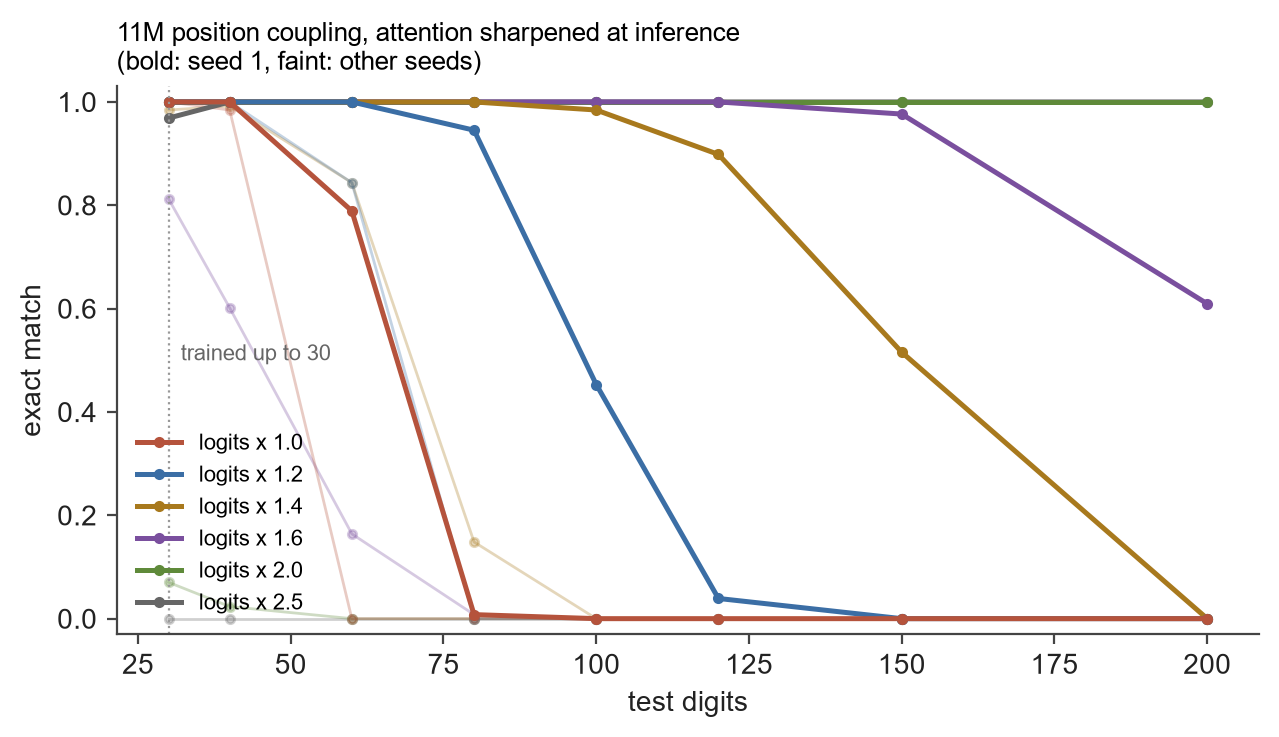
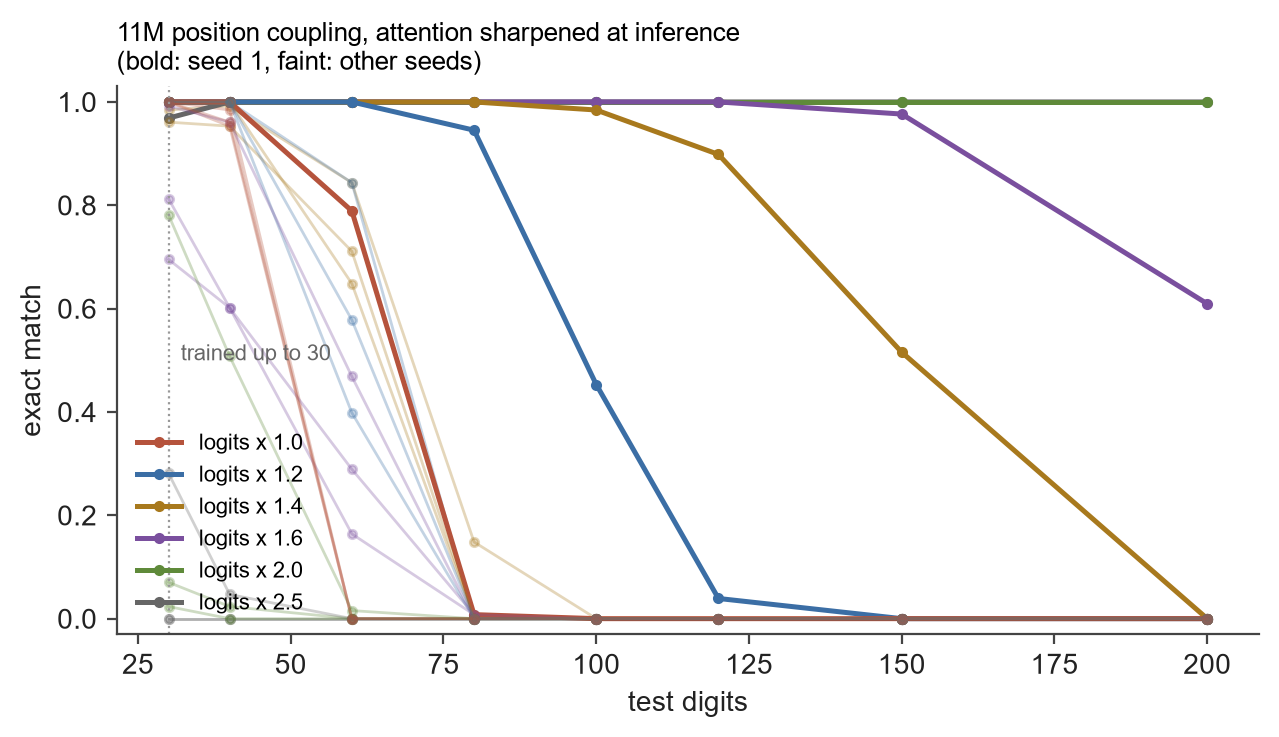
write up the temperature-trained runs and the two extra 11M seeds

diff --git a/paper/main.tex b/paper/main.tex
@@ -19,7 +19,7 @@ sharpening attention at inference recovers latent arithmetic circuits}
 \maketitle
 
 \begin{abstract}
-Small transformers trained on multi-digit addition are known to generalize poorly to operands longer than any seen in training, and the methods that help (reversed digits, abacus embeddings, position coupling, aligned blankspace) are known to be fragile across random seeds. We report a second kind of fragility: in many runs, out-of-distribution accuracy peaks early in training and then erodes while in-distribution accuracy stays at 100\%. We then show that much of what is lost, and much of what was never reached, is not the algorithm but the attention contrast needed to run it at longer lengths. Multiplying the attention logits by a constant at inference, with no retraining, takes an 11M parameter position-coupling model trained on up to 30-digit addition from 0\% to 100\% exact match at 200 digits. On smaller models the same knob recovers most of what erosion removed. The intervention only helps models whose weights already encode the complete algorithm: a second seed of the same model gains nothing past 100 digits at any scale. We locate the circuit that is being sharpened, a ripple-carry adder that reads the carry from the model's own previous output digit, and show with counterfactuals that it handles carry chains of any length. Attention-logit scaling has been used before as a length-extrapolation heuristic; this work supplies a controlled case where the mechanism is visible. Code, checkpoints and every figure are public.
+Small transformers trained on multi-digit addition are known to generalize poorly to operands longer than any seen in training, and the methods that help (reversed digits, abacus embeddings, position coupling, aligned blankspace) are known to be fragile across random seeds. We report a second kind of fragility: in many runs, out-of-distribution accuracy peaks early in training and then erodes while in-distribution accuracy stays at 100\%. We then show that much of what is lost, and much of what was never reached, is not the algorithm but the attention contrast needed to run it at longer lengths. Multiplying the attention logits by a constant at inference, with no retraining, takes an 11M parameter position-coupling model trained on up to 30-digit addition from 0\% to 100\% exact match at 200 digits. On smaller models the same knob recovers most of what erosion removed. The intervention only helps models whose weights already encode the circuit: all four seeds of that model gain at twice the training length, one reaches 200 digits, and seeds that never generalized gain nothing at any scale. We locate the circuit that is being sharpened, a ripple-carry adder that reads the carry from the model's own previous output digit, and show with counterfactuals that it handles carry chains of any length. Attention-logit scaling has been used before as a length-extrapolation heuristic; this work supplies a controlled case where the mechanism is visible. Code, checkpoints and every figure are public.
 \end{abstract}
 
 \section{Introduction}
@@ -28,7 +28,7 @@ A transformer trained to add 20-digit numbers usually cannot add 25-digit number
 
 Three observations led there. First, when we logged out-of-distribution accuracy throughout training rather than only at the end, it peaked early and then eroded in many runs, with in-distribution accuracy pinned at 100\% throughout (Section~\ref{sec:erosion}). Second, when we looked for the carry in a model that had generalized, we found a ripple-carry adder implemented as two attention operations: one head that gathers the two digits of the current column, and heads in later layers that read the model's own previous output digit to recover the incoming carry (Section~\ref{sec:carry}). Third, the models that failed past the training length failed gracefully, with per-digit error rising slowly, rather than collapsing.
 
-Together these suggested that the algorithm survives in the weights and what fails at longer lengths is attention: with more same-position distractors in the sequence, a head that must pick out two tokens spreads its mass. If so, sharpening every head at inference by multiplying its logits by a constant should help, and it should help only models that already have the circuit. Section~\ref{sec:sharpen} tests this. The headline: an 11M parameter position-coupling model trained on 1 to 30 digit operands, which scores 0\% exact match at 100 digits as trained, scores 100\% at every length from 10 to 200 digits with its logits scaled by 2. A second seed of the same configuration, which generalizes to 60 digits as trained, gains nothing beyond 100 at any scale. On the 3.4M models, seeds whose accuracy had eroded during training recover most of it.
+Together these suggested that the algorithm survives in the weights and what fails at longer lengths is attention: with more same-position distractors in the sequence, a head that must pick out two tokens spreads its mass. If so, sharpening every head at inference by multiplying its logits by a constant should help, and it should help only models that already have the circuit. Section~\ref{sec:sharpen} tests this. The headline: an 11M parameter position-coupling model trained on 1 to 30 digit operands, which scores 0\% exact match at 100 digits as trained, scores 100\% at every length from 10 to 200 digits with its logits scaled by 2. The other three seeds of the same configuration gain at 60 digits (from 0 to 65--84\%) and nothing beyond 100 at any scale. On the 3.4M models, seeds whose accuracy had eroded during training recover most of it.
 
 Scaling attention logits is not new as a trick. \citet{chiang2022overcoming} scale by the logarithm of sequence length and show it lets small transformers generalize on formal-language tasks; YaRN \citep{peng2023yarn} applies a temperature to attention logits when extending the context window of large language models. Our contribution is not the knob but the controlled setting in which its mechanism can be seen: a task where the algorithm is known, the circuit can be located, the dilution can be measured, and the knob can be shown to restore a specific latent computation rather than to improve things in general.
 
@@ -39,7 +39,7 @@ Scaling attention logits is not new as a trick. \citet{chiang2022overcoming} sca
 
 \paragraph{Position schemes.} We compare learned absolute positions (\emph{sequential}), abacus embeddings \citep{mcleish2024transformers}, in which the position id restarts at 1 for every number with a random offset during training, and position coupling \citep{cho2024position}, in which the digits of equal significance in both operands and the answer share one position id. We also implement the fixed-width aligned blankspace augmentation of \citet{aba2025}, in which every number is padded with blank tokens to a fixed width during training and at test time, so the sequence length never changes.
 
-\paragraph{Models.} Pre-norm decoder-only transformers with ReLU MLPs. The small model has 4 layers, width 256, 4 heads (3.4M parameters) and is trained on 1 to 20 digit operands for 50k steps of 256 examples. The large model has 6 layers, width 384, 6 heads (11M parameters) and is trained on 1 to 30 digit operands for 60k steps of 384 examples. AdamW, cosine decay, weight decay 0.1 unless stated. Every configuration is run with three seeds unless stated; the large position-coupling model with four.
+\paragraph{Models.} Pre-norm decoder-only transformers with ReLU MLPs. The small model has 4 layers, width 256, 4 heads (3.4M parameters) and is trained on 1 to 20 digit operands for 50k steps of 256 examples. The large model has 6 layers, width 384, 6 heads (11M parameters) and is trained on 1 to 30 digit operands for 60k steps of 384 examples. AdamW, cosine decay, weight decay 0.1 unless stated. Every configuration is run with three seeds unless stated; the small position-coupling model with six and the large one with four.
 
 \paragraph{Evaluation.} Exact match on the full answer under greedy decoding, on 128 to 256 problems whose operands both have exactly $n$ digits, for $n$ from 5 to 100 (small) or 200 (large). We report the final checkpoint unless stated, and we log all test lengths every 2,500 steps so that accuracy during training is also available.
 
@@ -60,7 +60,7 @@ What the usual final-checkpoint table hides is Figure~\ref{fig:erosion}. In ever
 \begin{figure}[H]
 \centering
 \includegraphics[width=0.9\linewidth]{generalization_over_training.png}
-\caption{Out-of-distribution exact match as a function of training step for position-coupling runs, at a fixed test length past the training length. Dotted lines are accuracy at the longest training length.}
+\caption{Out-of-distribution exact match as a function of training step for position-coupling runs, at a fixed test length past the training length; one line per seed. Dotted lines are accuracy at the longest training length. Bottom left and bottom right: models trained with their attention logits scaled by 2 throughout training.}
 \label{fig:erosion}
 \end{figure}
 
@@ -110,7 +110,7 @@ seed & logits $\times$ & 30 digits & 40 & 50 & 60 \\
 \label{tab:small}
 \end{table}
 
-Then the large model (Figure~\ref{fig:sweep}, Table~\ref{tab:big}). Seed 1, trained on up to 30 digits, scores 69\% at 60 digits and 0\% at 80 and beyond as trained. At $s=2.0$ it scores 100\% exact match at every length from 10 to 200 digits, on 128 problems per length. That is 6.7$\times$ the training length, matching the best figure reported for this method by \citet{cho2024position}, from a checkpoint that scored zero at 2.7$\times$. In-distribution accuracy is untouched at $s=2.0$ and slips at $s=2.5$. Seed 0 is the counterexample that makes the result interpretable: it gains at 60 digits (0 to 79\% at $s=1.4$), nothing beyond 100 at any scale, and strong scaling destroys it. The knob amplifies the circuit that is present. In seed 1 that circuit was already the complete algorithm and needed only its attention sharpened; in seed 0 it was not.
+Then the large model (Figure~\ref{fig:sweep}, Table~\ref{tab:big}). Seed 1, trained on up to 30 digits, scores 69\% at 60 digits and 0\% at 80 and beyond as trained. At $s=2.0$ it scores 100\% exact match at every length from 10 to 200 digits, on 128 problems per length. That is 6.7$\times$ the training length, matching the best figure reported for this method by \citet{cho2024position}, from a checkpoint that scored zero at 2.7$\times$. In-distribution accuracy is untouched at $s=2.0$ and slips at $s=2.5$. The other three seeds make the result interpretable: each gains at 60 digits (seed 0 from 0 to 84\% at $s=1.2$, seeds 2 and 3 from 0 to 71\% and 65\% at $s=1.4$), none gains beyond 100 at any scale, and strong scaling destroys them. The knob amplifies the circuit that is present. In seed 1 that circuit was already the complete algorithm and needed only its attention sharpened; in the others it was not.
 
 \begin{figure}[H]
 \centering
@@ -154,7 +154,7 @@ seed 1, logits $\times$ & 60 & 80 & 100 & 120 & 150 & 200 \\
 \caption{Exact match past the training length for the 11M position-coupling models when the attention logits are scaled by 2 in a subset of layers. Left: one layer at a time. Middle: the first $k$ layers; $k=0$ is the trained model and $k=6$ is every layer. Right: every layer except one. Bold: the seed that reaches 200 digits with all layers scaled. Faint: the seed that does not.}
 \label{fig:layers}
 \end{figure}
-% TODO: results of training with a fixed attention scale (addition_sharp, addition_big_sharp).
+\paragraph{Sharpening during training.} If softness is the problem, a fixed temperature in the forward pass during training might prevent it. We trained position-coupling models with every head's logits multiplied by 2 throughout training, three small seeds and two large. On the small model this made generalization more reliable: all three seeds reach 85--100\% at 30 digits, where two of six ordinary seeds do, and two of three exceed 40\% at 40 digits, where one of six ordinary seeds does. It did not prevent the erosion (Figure~\ref{fig:erosion}, bottom left and bottom right): the best small seed peaked at 91\% on 40 digits at step 10k and finished at 28\%, and one large seed peaked at 92\% on 60 digits and 32\% on 80 at step 20k and finished at 4\% and 0. Whatever the training dynamics are doing to these circuits, a constant temperature does not stop it; it makes the circuit more likely to form and leaves it just as likely to be lost.
 
 \section{Related work}
 
@@ -164,9 +164,9 @@ Attention-logit scaling as a length-extrapolation device appears in \citet{chian
 
 \section{Limitations and what we would do next}
 
-The 200-digit result is one seed of two at the time of writing, and the queued runs add two more seeds and the equivalent sweep on every other generalizing model in the repository. The dilution measurement in Figure~\ref{fig:dilution} explains the failure with length but not the erosion during training, which remains unexplained. The relative-position variants use a per-head distance bias rather than the relative embeddings of \citet{shaw2018self}, and the blankspace paper's headline combination did not learn under that substitution; a faithful implementation is future work. Everything was run on a single consumer GPU with models under 11M parameters and at most six seeds per configuration.
+The 200-digit result is one seed of four: the other three gain from the same intervention at twice the training length and no further. What separates that seed from the others is not known. The dilution measurement in Figure~\ref{fig:dilution} explains the failure with length but not the erosion during training, which remains unexplained. The relative-position variants use a per-head distance bias rather than the relative embeddings of \citet{shaw2018self}, and the blankspace paper's headline combination did not learn under that substitution; a faithful implementation is future work. Everything was run on a single consumer GPU with models under 11M parameters and at most six seeds per configuration.
 
-Three experiments follow directly. Scaling every head is crude; a head-by-head sweep would say which heads want it and might separate the seed that reaches 200 digits from the one that stops at 60. Sharpening during training rather than after it, with a fixed temperature on the logits, would test whether the erosion can be prevented rather than repaired. And the same knob applied to abacus and blankspace models would say how general the recovery is. All three are cheap on the checkpoints we release.
+Two questions follow directly. The erosion is now characterized but not explained: it survives a constant learning rate, a constant attention temperature, and in some seeds the removal of weight decay, and the first-layer sharpness that the inference knob restores does not visibly soften during training when measured at the training length. Something else in the circuit degrades. And the sharpening factor is a constant chosen after the fact; a length-dependent schedule in the spirit of \citet{chiang2022overcoming}, or a learned per-head temperature, might reach further or generalize across seeds. Both are cheap on the checkpoints we release.
 
 \paragraph{Reproducibility.} Code, configurations and every figure are at \url{https://github.com/Supergoatscriptguy/carrybit}. Final checkpoints of all 46 runs are at \url{https://huggingface.co/SuperGoatScriptGuy/carrybit}. Every number in this paper is produced by a script in the repository's \texttt{experiments/} folder.
 

diff --git a/experiments/generalization_over_training.py b/experiments/generalization_over_training.py
@@ -11,16 +11,19 @@ import matplotlib.pyplot as plt
 from carrybit.plotting import read_metrics, save, use_style
 
 PANELS = [
-    ("position coupling, weight decay 0.1", "runs/addition/position_coupling_s{}", (0, 1, 2), 40),
+    ("position coupling, weight decay 0.1", "runs/addition/position_coupling_s{}", (0, 1, 2, 3, 4, 5), 40),
     ("same, constant learning rate", "runs/addition_constant_lr/position_coupling_s{}", (0, 1, 2), 40),
-    ("same, no weight decay", "runs/addition_no_wd/position_coupling_s{}", (0, 1, 2), 40),
-    ("11M params, trained to 30 digits", "runs/addition_big/position_coupling_s{}", (0, 1), 60),
+    ("same, no weight decay", "runs/addition_no_wd/position_coupling_s{}", (0, 1, 2, 3, 4, 5), 40),
+    ("same, attention logits x2 during training", "runs/addition_sharp/position_coupling_s{}", (0, 1, 2), 40),
+    ("11M params, trained to 30 digits", "runs/addition_big/position_coupling_s{}", (0, 1, 2, 3), 60),
+    ("11M, attention logits x2 during training", "runs/addition_big_sharp/position_coupling_s{}", (0, 1), 60),
 ]
 
 use_style()
-fig, axes = plt.subplots(2, 2, figsize=(8, 5), sharex=True, sharey=True)
+fig, axes = plt.subplots(2, 3, figsize=(11, 5), sharex=True, sharey=True)
 palette = plt.rcParams["axes.prop_cycle"].by_key()["color"]
-for ax, color, (title, pattern, seeds, digits) in zip(axes.flat, palette, PANELS):
+for i, (ax, (title, pattern, seeds, digits)) in enumerate(zip(axes.flat, PANELS)):
+    color = palette[i % len(palette)]
     for seed in seeds:
         run = Path(pattern.format(seed))
         if not run.exists():

diff --git a/experiments/sharpening_sweep.py b/experiments/sharpening_sweep.py
@@ -29,10 +29,12 @@ SMALL = (20, 30, 40, 50, 60, 80, 100)
 BIG = (30, 40, 60, 80, 100, 120, 150, 200)
 RUNS = [
     ("11M coupling", "configs/addition_big.yaml", "runs/addition_big/position_coupling_s{}", (0, 1, 2, 3), BIG),
+    ("11M coupling, trained x2", "configs/addition_big.yaml", "runs/addition_big_sharp/position_coupling_s{}", (0, 1), BIG),
     ("11M abacus", "configs/addition_big.yaml", "runs/addition_big/abacus_s{}", (0, 1), BIG),
     ("11M blankspace fixed", "configs/blankspace_big.yaml", "runs/blankspace_big/blankspace_fixed_s{}", (0, 1), SMALL),
     ("3M coupling", "configs/addition.yaml", "runs/addition/position_coupling_s{}", (0, 1, 2, 3, 4, 5), SMALL),
     ("3M coupling, no wd", "configs/addition.yaml", "runs/addition_no_wd/position_coupling_s{}", (0, 1, 2, 3, 4, 5), SMALL),
+    ("3M coupling, trained x2", "configs/addition.yaml", "runs/addition_sharp/position_coupling_s{}", (0, 1, 2), SMALL),
     ("3M abacus", "configs/addition.yaml", "runs/addition/abacus_s{}", (0, 1, 2), SMALL),
     ("3M blankspace fixed", "configs/addition.yaml", "runs/addition/blankspace_fixed_s{}", (0, 1, 2), SMALL),
 ]

diff --git a/README.md b/README.md
@@ -22,7 +22,8 @@ The short version of what came out of it:
 - The erosion is mostly lost attention contrast, not a lost algorithm.
   Multiplying the attention logits by a constant at inference, with nothing
   retrained, takes an 11M parameter model trained on 30-digit addition from 0%
-  to 100% exact match at 200 digits. One seed of two; the other stops at 60.
+  to 100% exact match at 200 digits. One seed of four; the other three gain at
+  60 digits and stop there.
 - Grokking on modular addition sharpens Fourier structure that is already in
   the weights, in a transformer as well as in the MLP the claim was made for.
 - The carry is a ripple carry, and the carry wire is the model's own output.
@@ -199,7 +200,8 @@ width 384), trained on 1 to 30 digits for 60k steps and tested to 200.
 ![scaled ladder](assets/figures/length_ladder_big.png)
 
 Scale helped position coupling and did nothing for abacus. Coupling went from
-about 1.7x to 2.5x: the better seed holds 97% at 50 digits and 75% at 60. Both
+about 1.7x to 2.5x: the best of four seeds holds 97% at 50 digits and 75% at
+60, the other three land between 28% and 51% at 50 and near zero at 60. Both
 abacus seeds generalized zero digits past their training length, worse than
 the best small abacus seed. Still nowhere near 200.
 
@@ -220,7 +222,8 @@ not 10x. The paper's 200-digit result needs its relative position embeddings,
 which I could not make work with my simpler relative bias.
 
 ```
-uv run python experiments/length_ladder.py --config configs/addition_big.yaml --rungs "abacus,position coupling" --seeds 0,1
+uv run python experiments/length_ladder.py --config configs/addition_big.yaml --rungs "abacus" --seeds 0,1
+uv run python experiments/length_ladder.py --config configs/addition_big.yaml --rungs "position coupling" --seeds 0,1,2,3
 uv run python experiments/length_ladder.py --config configs/blankspace_big.yaml --rungs "blankspace fixed" --seeds 0,1
 ```
 
@@ -246,8 +249,16 @@ Two ablations on the small coupling model, then more seeds of everything:
   end), while the default seeds were mixed: one eroded from 63% to 11% at 40
   digits, another held steady at 39% at 30.
 
-So the erosion is real but not universal, and weight decay is a suspect
-rather than a verdict. What is solid is the practical point: papers reporting
+- **Attention logits scaled by 2 throughout training** (bottom left and
+  bottom right of the figure), the training-time version of the inference knob described two
+  sections down: all three small seeds reach 85 to 100% at 30 digits, where
+  two of six ordinary seeds do, so it makes the circuit more likely to form.
+  It does not stop the erosion. The best small seed peaked at 91% on 40 digits
+  and finished at 28%; one 11M seed peaked at 92% on 60 digits and finished
+  at 4%.
+
+So the erosion is real but not universal, and neither the schedule, weight
+decay, nor a constant attention temperature explains it. What is solid is the practical point: papers reporting
 the final checkpoint and papers reporting the best checkpoint are measuring
 different things, and the gap here can be 50 points. The sharpening section
 below says what the erosion actually is.
@@ -256,6 +267,8 @@ below says what the erosion actually is.
 uv run python experiments/length_ladder.py --rungs "position coupling" --set train.cosine=false --name addition_constant_lr
 uv run python experiments/length_ladder.py --rungs "position coupling" --seeds 0,1,2,3,4,5
 uv run python experiments/length_ladder.py --rungs "position coupling" --seeds 0,1,2,3,4,5 --set train.weight_decay=0 --name addition_no_wd
+uv run python experiments/length_ladder.py --rungs "position coupling" --set model.attn_scale=2.0 --name addition_sharp
+uv run python experiments/length_ladder.py --config configs/addition_big.yaml --rungs "position coupling" --seeds 0,1 --set model.attn_scale=2.0 --name addition_big_sharp
 uv run python experiments/generalization_over_training.py
 ```
 
@@ -343,11 +356,12 @@ trained on up to 30 digits, tested out to 200 on 128 problems per length:
 
 That is 100% exact match at 6.7x the training length, from a model that
 scored zero at 2.7x, by multiplying one tensor by two. In-distribution
-accuracy is untouched at x2.0 and starts to slip at x2.5. Seed 0 tells the
-other half of the story: it gains at 60 digits (0 to 79% at x1.4) and nothing
-beyond 100 at any scale, and strong scaling breaks it. The knob amplifies the
-circuit that is there. In seed 1 that circuit was already the full algorithm
-and only needed its attention sharpened; in seed 0 it never was.
+accuracy is untouched at x2.0 and starts to slip at x2.5. The other three
+seeds tell the other half of the story: each gains at 60 digits (0 to 84%,
+71% and 65%), none gains beyond 100 at any scale, and strong scaling breaks
+them. The knob amplifies the circuit that is there. In seed 1 that circuit was
+already the full algorithm and only needed its attention sharpened; in the
+others it never was.
 
 How general is it? The same sweep on every run in this README, at 2x and 3x
 each run's training length, as trained versus at its best scale:
@@ -464,17 +478,14 @@ uv run python experiments/length_ladder.py --rungs "position coupling,blankspace
 
 ## What I would try next
 
-- Sharpen attention during training rather than after it: a temperature on the
-  logits, or a penalty on attention entropy, and see whether the erosion goes
-  away. If the inference knob works this well, the training-time version should
-  work better.
-- Find out what the sharpening does head by head. It multiplies every head's
-  logits; the digit-adder head probably wants it and some heads probably do not.
-- Work out what separates the seed that sharpens to 200 digits from the one
-  that stops at 60. Both are 100% in distribution; something in the circuit
-  differs, and the carry experiment's tools should be able to find it.
-- The same knob on the abacus and blankspace models, and on the erosion
-  checkpoints of the small runs, to see how general the recovery is.
+- Explain the erosion. It survives a constant learning rate, a constant
+  attention temperature, and sometimes the removal of weight decay, and the
+  first-layer sharpness that the knob restores does not visibly soften at the
+  training length. Something else in the circuit degrades, and the carry
+  experiment's tools should be able to find it.
+- Work out what separates the seed that sharpens to 200 digits from the three
+  that stop at 60. All four are 100% in distribution.
+- A length-dependent or learned sharpening factor instead of one constant.
 - Shaw-style relative embeddings, to give the paper's headline combination a
   fair test.
 - A key-value cache for generation. Evaluating 200-digit problems without one is
